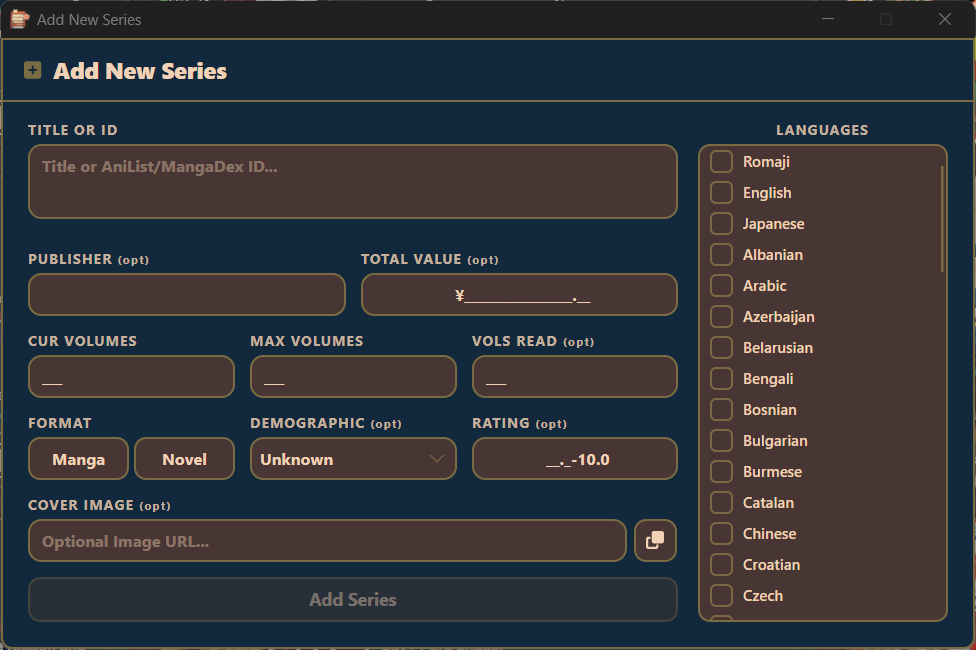
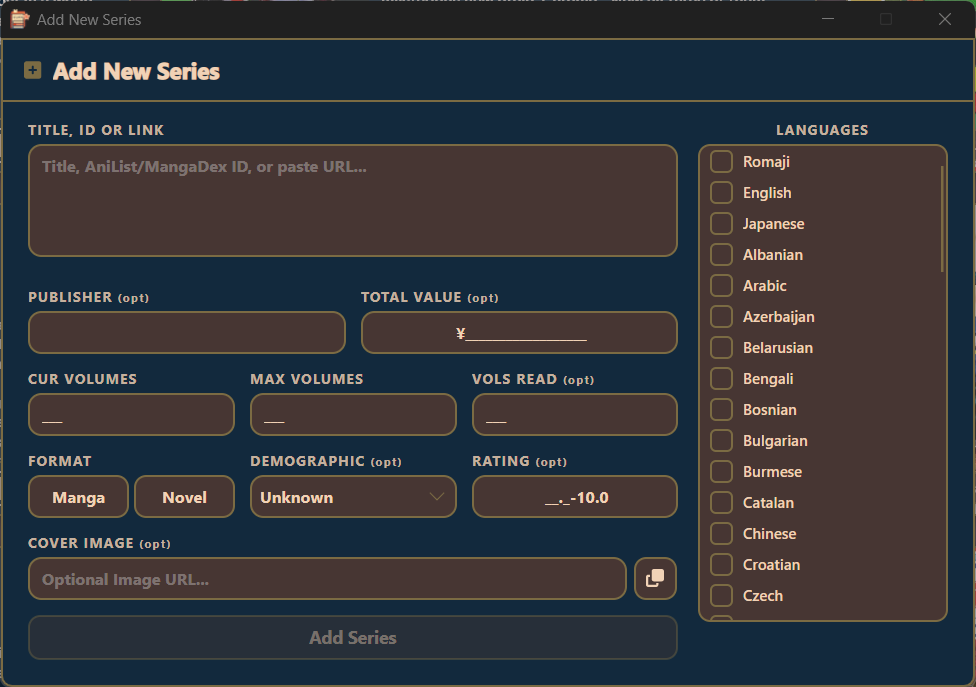
docs: add Microsoft Store listing copy for v2.3.0
Adds STORE_LISTING.md with HTML description, search keywords, and product features for Partner Center submission. Refreshes Add/Edit series screenshots and ignores the local cert renewal script.

Changed region(s): [[0.0, 0.0923, 1.0, 1.0], [0.0, 0.0, 1.0, 0.0615], [0.707, 0.8615, 0.9836, 0.9538]]

diff --git a/STORE_LISTING.md b/STORE_LISTING.md
@@ -1,0 +1,122 @@
+# Microsoft Store Listing — Tsundoku v2.3.0
+
+Reference: <https://learn.microsoft.com/en-us/windows/apps/publish/faq/submit-your-app>
+
+Partner Center's Description box uses a rich-text editor that accepts a small set of HTML tags (`<b>`, `<i>`, `<u>`, `<br>`, `<p>`, `<ul>`, `<ol>`, `<li>`, `<a>`). It does **not** render Markdown. The HTML block below is ready to paste directly into the Description field.
+
+The Product Features field is entered as individual items in Partner Center (one per line, up to 20) — no HTML, plain text.
+
+---
+
+## Description (paste as HTML)
+
+```html
+<p>Tsundoku is a desktop manga and light novel collection manager built for collectors who want a beautiful, organized way to track their library.</p>
+
+<p><b>Collection Management</b></p>
+<ul>
+  <li>Add series from AniList or MangaDex by title, ID, or pasted URL &mdash; metadata, covers, and staff info auto-populate</li>
+  <li>Track volumes collected, volumes read, ratings, value, publisher, and format</li>
+  <li>Support for Manga, Manhwa, Manhua, Manfra, Comic, and Novel formats</li>
+  <li>Import collections from Libib CSV, Goodreads CSV, or JSON backup files</li>
+  <li>Export your collection to a CSV spreadsheet</li>
+</ul>
+
+<p><b>Search, Filter, and Sort</b></p>
+<ul>
+  <li>Search by title, staff, or publisher with real-time filtering</li>
+  <li>Advanced filter builder with chip-based UI for combining multiple criteria</li>
+  <li>Smart Shelves &mdash; save any advanced filter as a named chip above your collection; click to apply, click again to deselect, delete with the &times; button on the chip</li>
+  <li>Filter by status, format, demographic, genre, completion, favorites, read/unread, and publisher</li>
+  <li>Sort by title, rating, unread, read, value, or volume count</li>
+  <li>Dynamic publisher filter populated from your collection</li>
+</ul>
+
+<p><b>Themes and Customization</b></p>
+<ul>
+  <li>Full theme editor with 30+ customizable color properties</li>
+  <li>Two theme generation presets for quick setup</li>
+  <li>Import and export themes as JSON</li>
+  <li>Glassmorphism transparent blur effect toggle</li>
+  <li>30+ currency options with locale-aware formatting</li>
+</ul>
+
+<p><b>Collection Stats</b></p>
+<ul>
+  <li>Pie charts for format, demographic, and status distributions</li>
+  <li>Track mean rating, total value, volumes collected, volumes read, and completion rate</li>
+  <li>Copy any stat to clipboard with a click</li>
+</ul>
+
+<p><b>Price Analysis</b></p>
+<ul>
+  <li>Compare prices across 15+ retailers for any series in your collection</li>
+  <li>Region-aware pricing for America, Australia, Britain, Canada, and Europe &mdash; the website list filters automatically to sites that ship to your region</li>
+  <li>Membership discount support for Kinokuniya USA and Books-A-Million</li>
+  <li>Unreachable sites are skipped automatically so a single down retailer never aborts your scrape</li>
+</ul>
+
+<p><b>Series Cards</b></p>
+<ul>
+  <li>High-resolution cover images stored at 3x for sharp display on high-DPI screens</li>
+  <li>Hover effects with smooth animations</li>
+  <li>Quick volume increment/decrement buttons</li>
+  <li>Edit any series with an icon toolbar &mdash; navigate prev/next through your collection, jump to the source page, favorite, refresh, save, mark complete, or delete in one place</li>
+  <li>Copy series title to clipboard</li>
+  <li>Change covers from URL or file</li>
+</ul>
+
+<p><b>Additional Features</b></p>
+<ul>
+  <li>Multilingual font support for Japanese, Korean, Chinese, Arabic, Thai, and more</li>
+  <li>API health monitoring with automatic notifications when AniList or MangaDex are unavailable</li>
+  <li>Automatic backup of user data on close</li>
+  <li>Discord Rich Presence integration</li>
+  <li>Splash screen with loading progress</li>
+  <li>Keyboard shortcuts for save, screenshot, fullscreen, and advanced search</li>
+  <li>In-app changelog popup on updates with a "What's New" button in settings</li>
+</ul>
+```
+
+---
+
+## Search Keywords (enter as individual items in Partner Center)
+
+Up to 7 keywords. 40 char limit each. No more than 21 words total across all keywords.
+
+1. Manga tracker app
+2. Manga collection app
+3. Light novel tracker
+4. Manhwa tracker app
+5. Manhua tracker app
+6. Manga library manager
+7. Manga price tracker
+
+Word count: 3 + 3 + 3 + 3 + 3 + 3 + 3 = **21 words** (at cap). Longest keyword: 21 chars (well under 40). All tied to manga / manhwa / manhua / light novel + "app/tracker/library/manager" so search intent stays scoped to the product category.
+
+---
+
+## Product Features (enter as individual items in Partner Center)
+
+Up to 20. Plain text, one per line. Keep them short — tagline-style, not full sentences.
+
+1. Comprehensive Collection Tracking
+2. AniList & MangaDex Integration
+3. URL & ID Quick Add
+4. Multi-Format Support
+5. CSV & JSON Import/Export
+6. Real-Time Search
+7. Advanced Filter Builder
+8. Smart Shelves
+9. Flexible Sorting
+10. Inline Series Editor
+11. Quick Volume Controls
+12. Customizable Themes
+13. Multi-Currency Support
+14. Collection Statistics
+15. Cross-Retailer Price Analysis
+16. High-DPI Cover Art
+17. Multilingual Font Support
+18. API Health Monitoring
+19. Discord Rich Presence
+20. 100% Local & Private